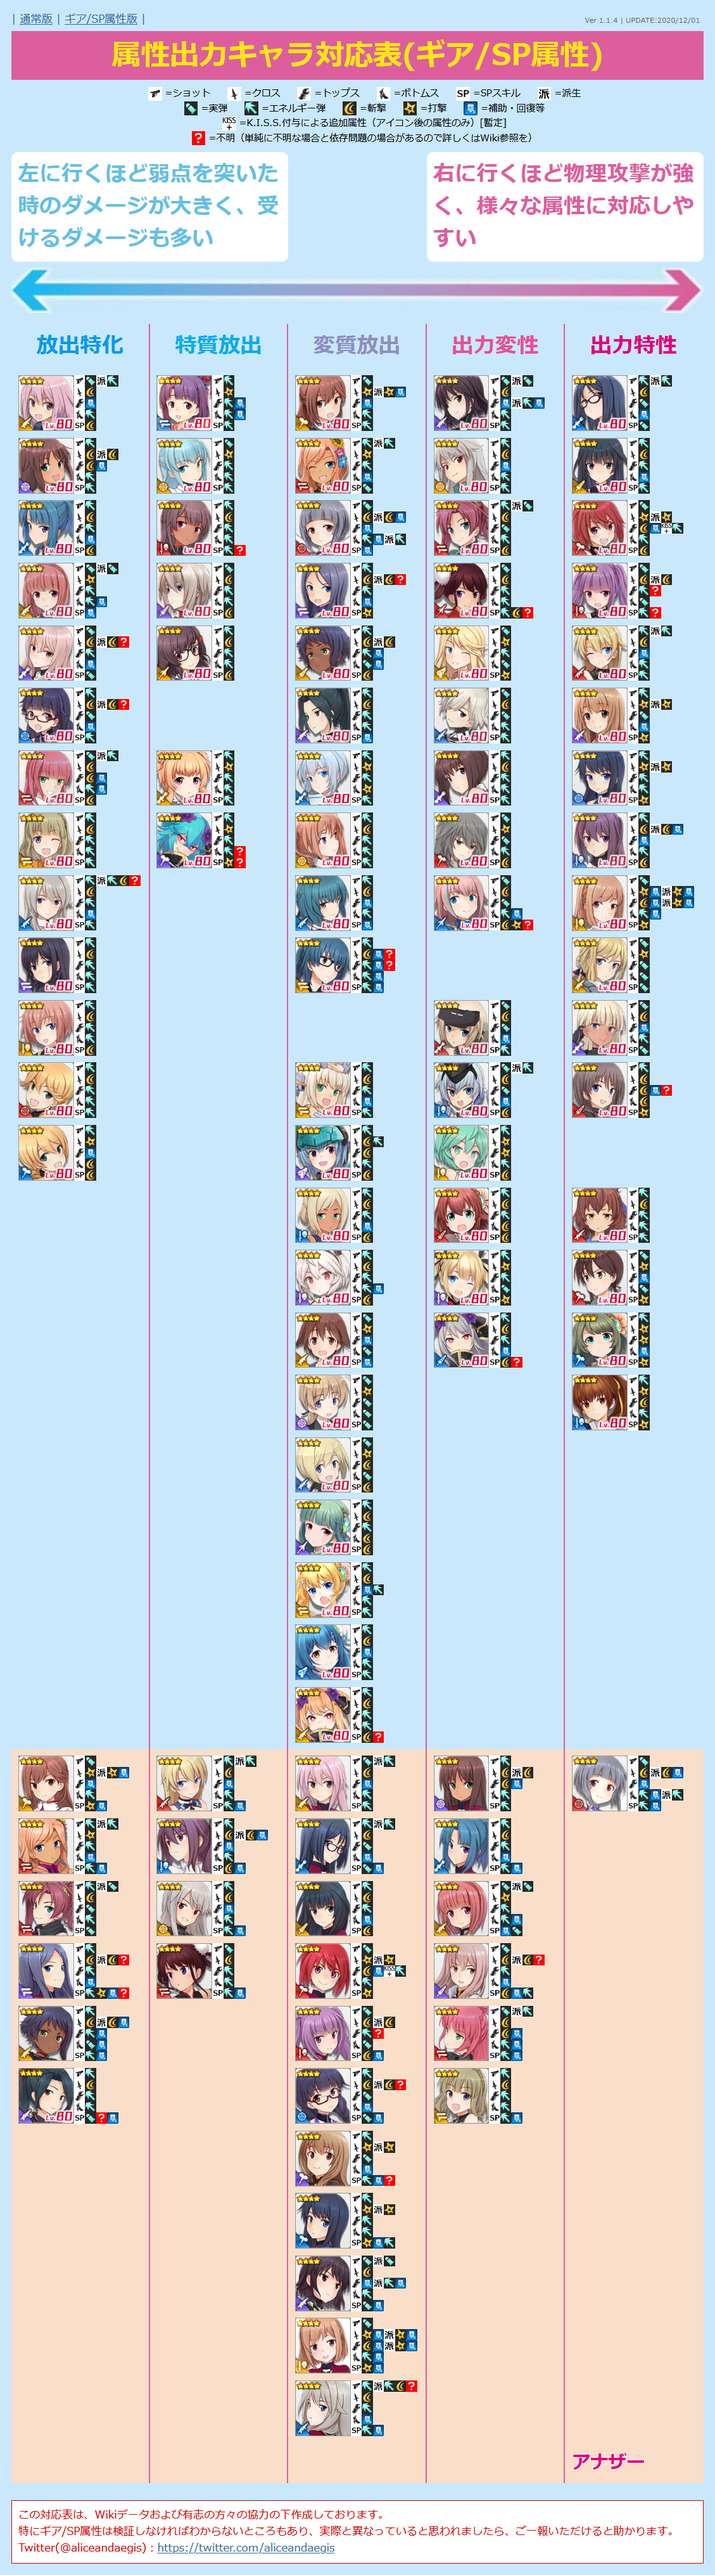
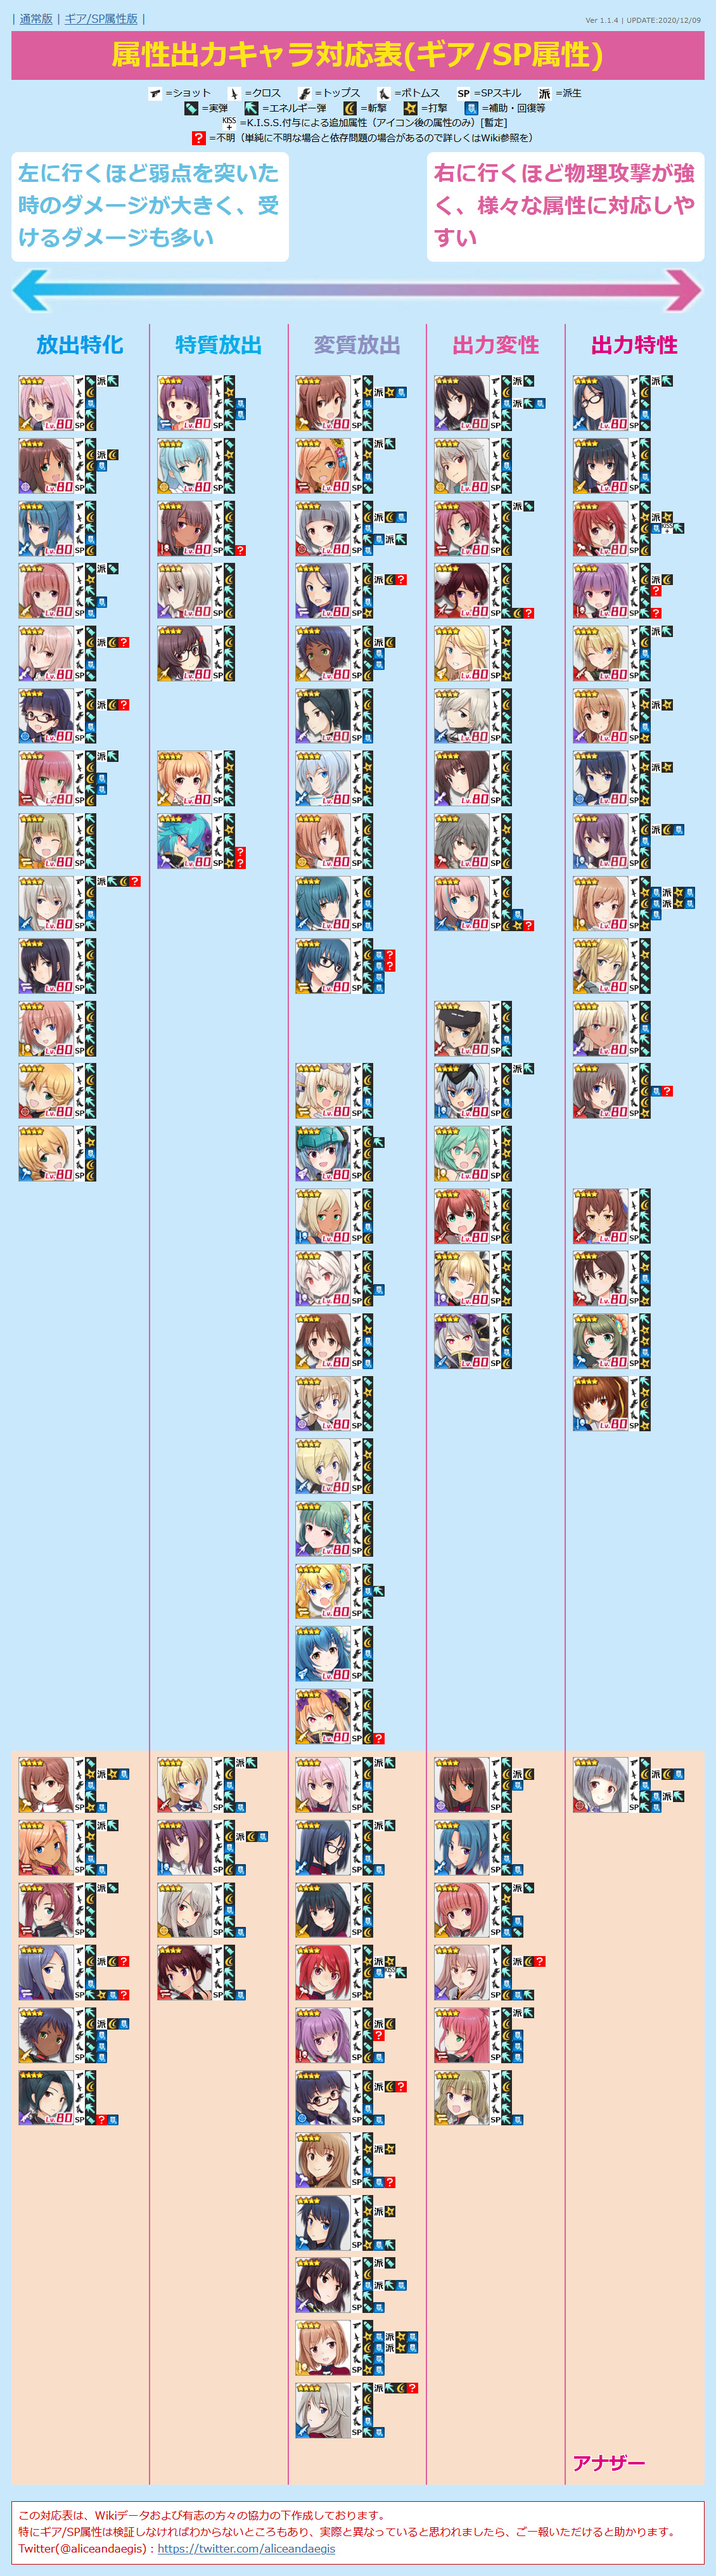
UPDATE charadata
・コラボキャラ　ユキのSP属性を修正

diff --git a/alice.html b/alice.html
@@ -12,7 +12,7 @@
   <script>
 
 /* 更新情報 必要に応じて書き換えてください */
-  var version = "Ver 1.1.4 | UPDATE:2020/12/01";
+  var version = "Ver 1.1.4 | UPDATE:2020/12/09";
 
 /*
   jsonファイルを外部に設置すると単にHTMLファイルを開いたときに動作しなくなるので当面はHTMLファイル内に
@@ -1432,7 +1432,7 @@
       "equip2": "3",
       "equip3": "2",
       "equip4": "5",
-      "sp": "3?",
+      "sp": "3",
       "attr": "4",
       "link": "https://wikiwiki.jp/alicegear/%E3%83%A6%E3%82%AD",
       "category": "99"

diff --git a/README.md b/README.md
@@ -50,5 +50,4 @@ index.htmlは削除しても構いません。
 
   [動作サンプル(Netlify)](https://aliceandaegis.netlify.app/alice.html) (GitHubと連動中)
 
-  ~~[動作サンプル(StarFree)](http://aliceinfo.starfree.jp/alice.html) (暫定でフリーサーバレンタルのためいずれ消失します)~~
   
